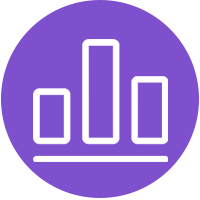
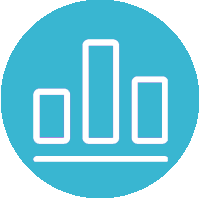
moving_health页面样式修改

diff --git a/app/assets/stylesheets/user/data_examine.scss b/app/assets/stylesheets/user/data_examine.scss
@@ -34,7 +34,7 @@
 .mh-bg{
 	width: 100%;
 	height:100%;
-	background-image: image-url("dy-first.jpg");
+	background-image: image-url("dy-first2.jpg");
 	background-size: 100%;
 }
 
